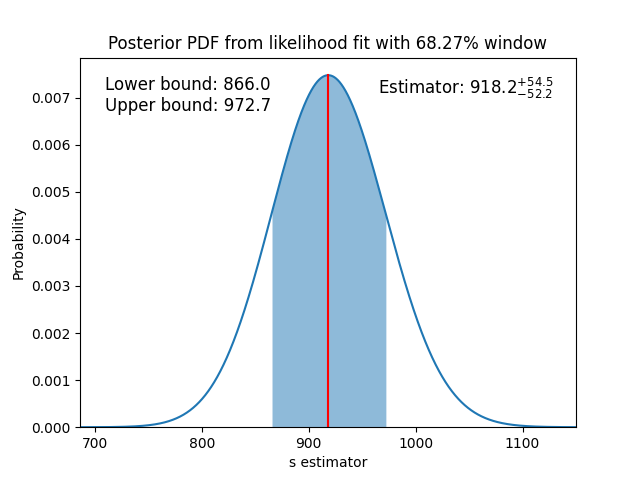
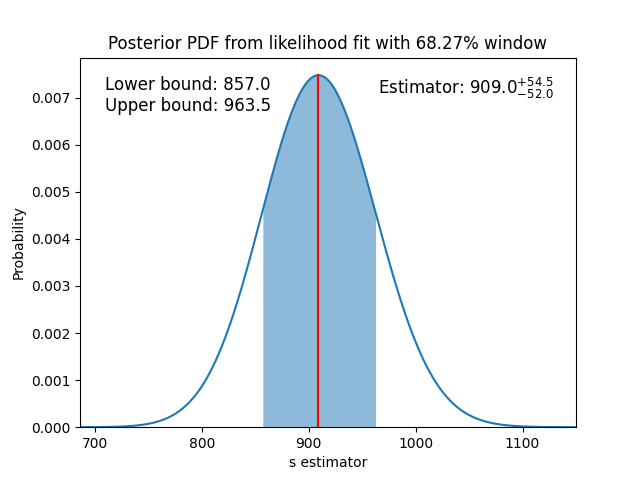
HW3 Problem 1 Final

diff --git a/HW/HW3/problem_1/problem_1.py b/HW/HW3/problem_1/problem_1.py
@@ -27,19 +27,12 @@ def gint(mu, sigma, xlow, xhigh):
     return int_sum * dx / (sigma * ROOT2PI)
 
 
-def log_likelihood(_n, _bins, _s):
-    # print(f"{_s=}")
+def calc_log_likelihood(_n, _bins, _s):
     log_likelihood_sum = 0
     for bin_number, bin_value in enumerate(_n):
-        # print(f"{_bins[bin_number]=}")
-        # print(f"{_bins[bin_number+1]=}")
-        # print(f"{bin_number=}")
-        # print(f"{bin_value=}")
         mu = 251.188 + _s * gint(MU, SIGMA, _bins[bin_number], _bins[bin_number+1])
-        # print(f"{mu=}")
-        # print("")
-        log_likelihood_sum += mu - bin_value * np.log(mu)
-    return 2*log_likelihood_sum
+        log_likelihood_sum += bin_value * np.log(mu) - mu
+    return log_likelihood_sum
 
 
 def integrate_likelihood(_x, _y, _low_x, _high_x):
@@ -60,8 +53,7 @@ def find_bound(_x, _y, backwards=False):  # 15.865
         _y = np.flip(_y)
     for i, y in enumerate(_y):
         int_sum += dx * y
-        print(int_sum)
-        if int_sum < -0.15865:
+        if int_sum > 0.15865:
             return _x[i]
 
 
@@ -73,77 +65,73 @@ fig, ax = plt.subplots()
 
 n, bins, patches = ax.hist(data, 36, (100, 1000), label="Resonance data")
 
-precision = 5
+precision = 0.5
 max_s = 2500
 number_of_bins = int(max_s/precision + 1)
-likelihood_list_x = np.array([])
-likelihood_list_y = np.array([])
-base_likelihood = 0
-for i, s in enumerate(np.linspace(0, max_s, number_of_bins)):
-    next_likelihood = log_likelihood(n, bins, s)
-    if s == 0:
-        base_likelihood = next_likelihood
-    print(f"{s=}, {base_likelihood=}, {next_likelihood=}")
-    if next_likelihood - base_likelihood > 0:
-        break
-    likelihood_list_x = np.append(likelihood_list_x, s)
-    likelihood_list_y = np.append(likelihood_list_y, next_likelihood - base_likelihood)
+s_values = np.linspace(0, max_s, number_of_bins)  # [0, 0.5, 1.0, 1.5, ..., 2499.05, 2500]
+log_likelihood_list_y = np.array([])
 
-likelihood_list_y = np.exp(likelihood_list_y)
-likelihood_magnitude = integrate_likelihood(likelihood_list_x, likelihood_list_y, 0, likelihood_list_x[-1])
+base_likelihood = calc_log_likelihood(n, bins, 0)  # Will subtract the s=0 likelihood as an offset
+for i, s in enumerate(s_values):
+    log_likelihood = calc_log_likelihood(n, bins, s) - base_likelihood
+    if log_likelihood < 0:
+        break  # Stop adding values to array when likelihood becomes negative
+    log_likelihood_list_y = np.append(log_likelihood_list_y, log_likelihood)
+
+# Cut off end of x-array to match size of y-array
+s_values = s_values[0 : len(log_likelihood_list_y)]
+
+# Exponentiate and normalize
+likelihood_list_y = np.exp(log_likelihood_list_y)
+likelihood_magnitude = integrate_likelihood(s_values, likelihood_list_y, 0, s_values[-1])
 likelihood_list_y = likelihood_list_y / likelihood_magnitude
-lower_bound = find_bound(likelihood_list_x, likelihood_list_y, backwards=False)
-upper_bound = find_bound(likelihood_list_x, likelihood_list_y, backwards=True)
-print(f"{lower_bound=} --- {upper_bound=}")
-# print(f"{likelihood_list_x=}")
-# print(f"{likelihood_list_y=}")
 
-# print(f"{max(likelihood_list[1])=}")
-max_bin = np.where(likelihood_list_y == min(likelihood_list_y))[0][0]
-print(f"{max_bin=}")
+# Find lower and upper bounds of 67% confidence interval
+lower_bound = find_bound(s_values, likelihood_list_y, backwards=False)  # Lower bound of 67% interval (x-value)
+upper_bound = find_bound(s_values, likelihood_list_y, backwards=True)  # Upper bound of 67% interval (x-value)
 
+max_bin = np.where(likelihood_list_y == max(likelihood_list_y))[0][0]  # Bin number of maximum bin
+max_x = s_values[max_bin]  # X-value for maximum bin
 
-print("Likelihoods")
-for i, j in enumerate(likelihood_list_x):
-    # print(f"{likelihood_list_x[i]}: {likelihood_list_y[i]}")
-    pass
-
-print(f"Bin {max_bin}:\n{likelihood_list_x[max_bin]}: {likelihood_list_y[max_bin]}")
-
-
+# Plot posterior PDF
 fig2, ax2 = plt.subplots()
-fig2: Figure
-ax2: Axes
-ax2.plot(likelihood_list_x, likelihood_list_y)
+fig2: Figure  # Typehinting
+ax2: Axes  # Typehinting
+ax2.plot(s_values, likelihood_list_y)
 ax2.set_title("Posterior PDF from likelihood fit with 68.27% window")
 ax2.set_xlabel("s estimator")
 ax2.set_ylabel("Probability")
-ax2.fill_between(likelihood_list_x,
+plt.xlim(686, 1150)  # Center view around peak
+
+# Fill in 67% confidence range
+ax2.fill_between(s_values,
                  likelihood_list_y,
-                 where=(lower_bound < likelihood_list_x) & (likelihood_list_x < upper_bound),
+                 where=(lower_bound < s_values) & (s_values < upper_bound),
                  alpha=0.5)
-# plt.xlim(686, 1150)
-plt.xlim(0, 2000)
+
+# Add text for bounds and estimator value
 ax2.text(0.05, 0.95, f"Lower bound: {lower_bound}\nUpper bound: {upper_bound}",
          transform=ax2.transAxes, fontsize=12, verticalalignment="top")
-# Lower bound: 866, Upper bound: 972.7
-
-max_s = likelihood_list_x[max_bin]
-
-ax2.text(0.60, 0.95, rf"Estimator: ${max_s}^{{+{round(upper_bound-max_s, 1)}}}_{{-{round(max_s-lower_bound, 1)}}}$",
+ax2.text(0.60, 0.95, rf"Estimator: ${max_x}^{{+{round(upper_bound-max_x, 1)}}}_{{-{round(max_x-lower_bound, 1)}}}$",
          transform=ax2.transAxes, fontsize=12, verticalalignment="top")
-# 918.2 + 54.5 - 52.2
-bottom, _ = plt.ylim()
-top = 0
-plt.ylim(top=top)
-y_percentage = (likelihood_list_y[max_bin] - top) / (top - bottom)
-ax2.axvline(max_s, 1-y_percentage, 1, color="#FF0000")
+
+# Add vertical line marking maximum
+_, top = plt.ylim()
+plt.ylim(bottom=0)
+y_percentage = likelihood_list_y[max_bin] / top
+ax2.axvline(max_x, 0, y_percentage, color="#FF0000")
 
 
-# lower_bound=866.0 --- upper_bound=972.7
-# max_bin=9182
-# Likelihoods
-# Bin 9182:
-# 918.2: 0.007474625108787476
+# #############################################
+# ################## RESULTS ##################
+# Precision=0.5
+# max_bin=1818
+# Bin 1818:
+# 909.0: 0.007478422884021669
+# Lower bound: 857, Upper bound: 963.5
+# Estimator: 909 + 54.5 - 52.0
+# #############################################
+# #############################################
+
 
 plt.show()
